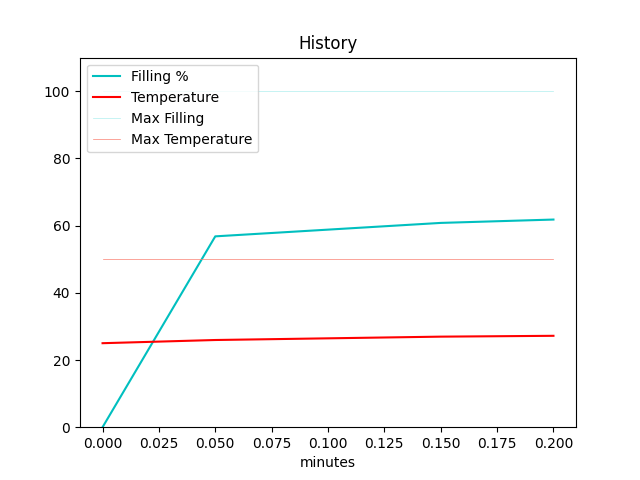
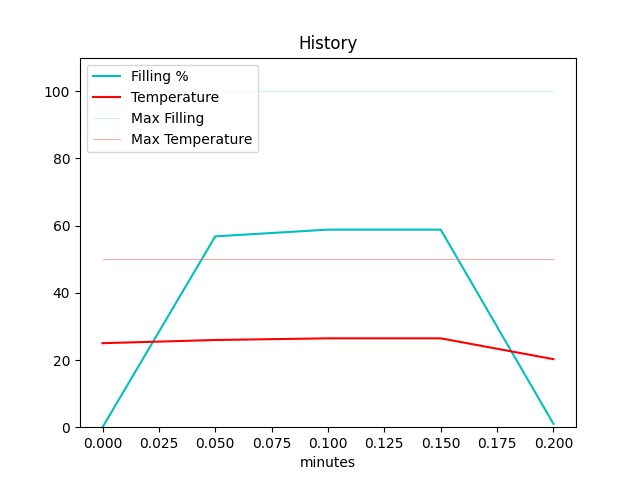
feat(operator dashboard): refactored history data storage

diff --git a/src/pc/operatorDashboard.py b/src/pc/operatorDashboard.py
@@ -43,10 +43,6 @@ root.rowconfigure(2, weight=3)
 root.rowconfigure(2, weight=2)
 root.resizable(False, False)
 
-# clears history file
-with open(history_text_path, 'w') as f:
-	pass
-# f.close()
 
 titleLabel = Label(text='OPERATOR DASHBOARD', font=(30))
 titleLabel.grid(column=0, row=0, columnspan=2)
@@ -58,6 +54,10 @@ temperatureLabel.grid(column=1, row=1)
 
 filling = 0.0
 temperature = 25.0
+
+timeArray = []
+fillArray = []
+tempArray = []
 
 #-----------Data_management-------------
 
@@ -84,7 +84,6 @@ image_label.grid(column=0, row=2, columnspan=2)
 def updateImage():
 	global img
 	try:
-		# with Image.open(history_img_path) as photo:
 		photo = Image.open(history_img_path)
 		img = ImageTk.PhotoImage(photo)
 		photo.close()
@@ -130,67 +129,41 @@ restoreButton.grid(column=1, row=3)
 
 #-----------History_management-------------
 
-# saves history data on file
-def saveHistory(data):
-	with open(history_text_path, 'r+')as f: 
-		lines = f.readlines()
-		n = min(len(lines) + 1, 150)
-		lines.insert(0, data)
-		f.seek(0, 0)
-		for line in lines[0:n]:
-			f.write(line)
-	# f.close()
-
-# reads history data from file
-def readHistory():
-	timeA = list()
-	fillA = list()
-	tempA = list()
-	
-	with open(history_text_path, 'r') as f:
-		tmp = f.read()
-	# f.close()
-	rawTmp = tmp.replace("\n", "").split(" ")
-	for i in range(rawTmp.count("")):
-		rawTmp.remove("")
-	for i in range(len(rawTmp)):
-		if i % 3 == 0:
-			timeA.append(float(rawTmp[i]))
-		elif i % 3 == 1:
-			fillA.append(float(rawTmp[i]))
-		elif i % 3 == 2:
-			tempA.append(float(rawTmp[i]))
-	return timeA, fillA, tempA 
-
 # generate a graph with history data and saves on a png
-def generateGraph(time, fill, temp):
+def generateGraph():
 	try:
-		maxFill = [100]*len(fill)
-		maxTemp = [50]*len(temp)
-		
+		maxFill = [100]*len(fillArray)
+		maxTemp = [50]*len(tempArray)
+
 		plt.title("History")
-		plt.plot(time, fill, 'c', label='Filling %')
-		plt.plot(time, temp, 'r', label='Temperature')
-		plt.plot(time, maxFill, 'paleturquoise', label='Max Filling', linewidth=0.5)
-		plt.plot(time, maxTemp, 'salmon', label='Max Temperature', linewidth=0.5)
+		plt.plot(timeArray, fillArray, 'c', label='Filling %')
+		plt.plot(timeArray, tempArray, 'r', label='Temperature')
+		plt.plot(timeArray, maxFill, 'paleturquoise', label='Max Filling', linewidth=0.5)
+		plt.plot(timeArray, maxTemp, 'salmon', label='Max Temperature', linewidth=0.5)
 		plt.ylim(ymin=0, ymax=110)
 		plt.xlabel("minutes")
 		plt.legend(loc="upper left")
+		plt.locator_params(axis='x', nbins=10)
 		plt.savefig(history_img_path)
 		plt.close()
 
 	except MemoryError:
 		pass
 	
+
 # history data loop, which saves data
 def saveData():
 	t0 = time.time()
 	while(True):
 		ts = time.time()
-		string = str("{:.2f}".format((time.time() - t0)/60)) + " " + str(filling) + " " + str(temperature) + " \n"
-		saveHistory(string)
-		timeA, fillA, tempA = readHistory()
-		generateGraph(timeA, fillA, tempA)
+		timeArray.insert(0, float("{:.2f}".format((time.time() - t0)/60)))
+		fillArray.insert(0, filling)
+		tempArray.insert(0, temperature)
+		if len(timeArray) > 200:
+			timeArray.pop(200)
+			fillArray.pop(200)
+			tempArray.pop(200)
+		generateGraph()
 		while(time.time() - ts < SAVE_TIME):
 			pass
 		
